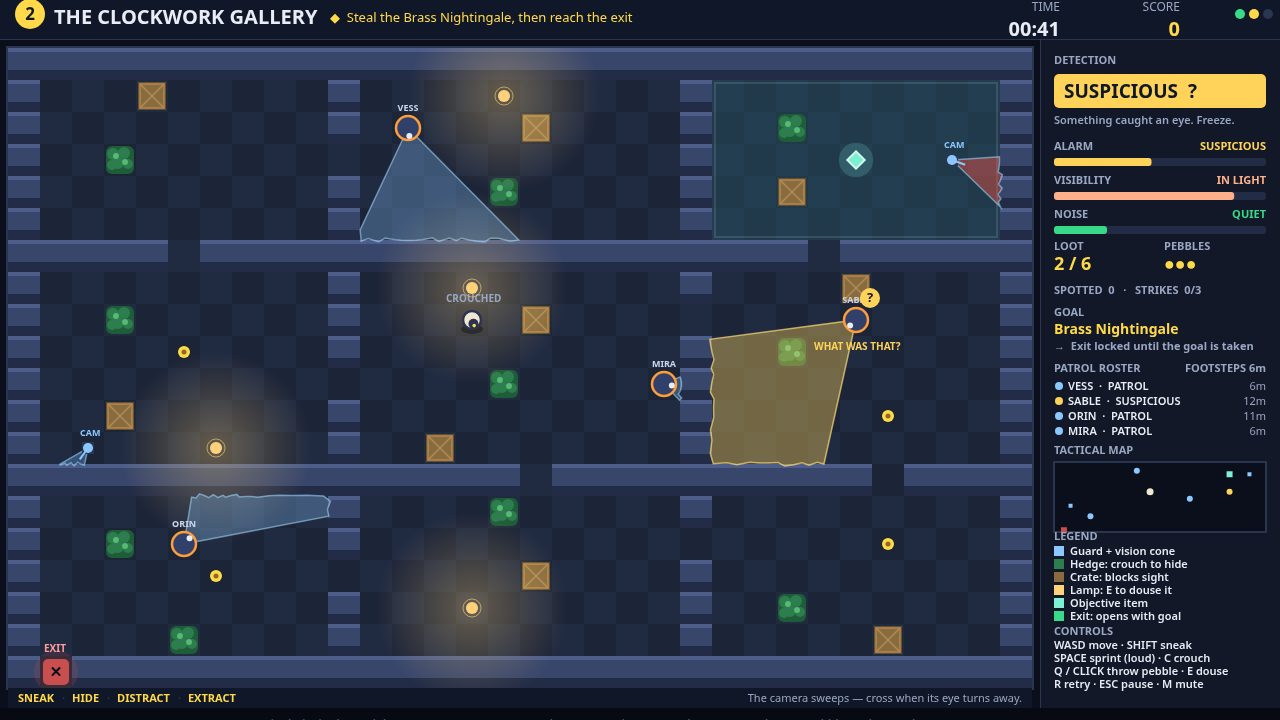
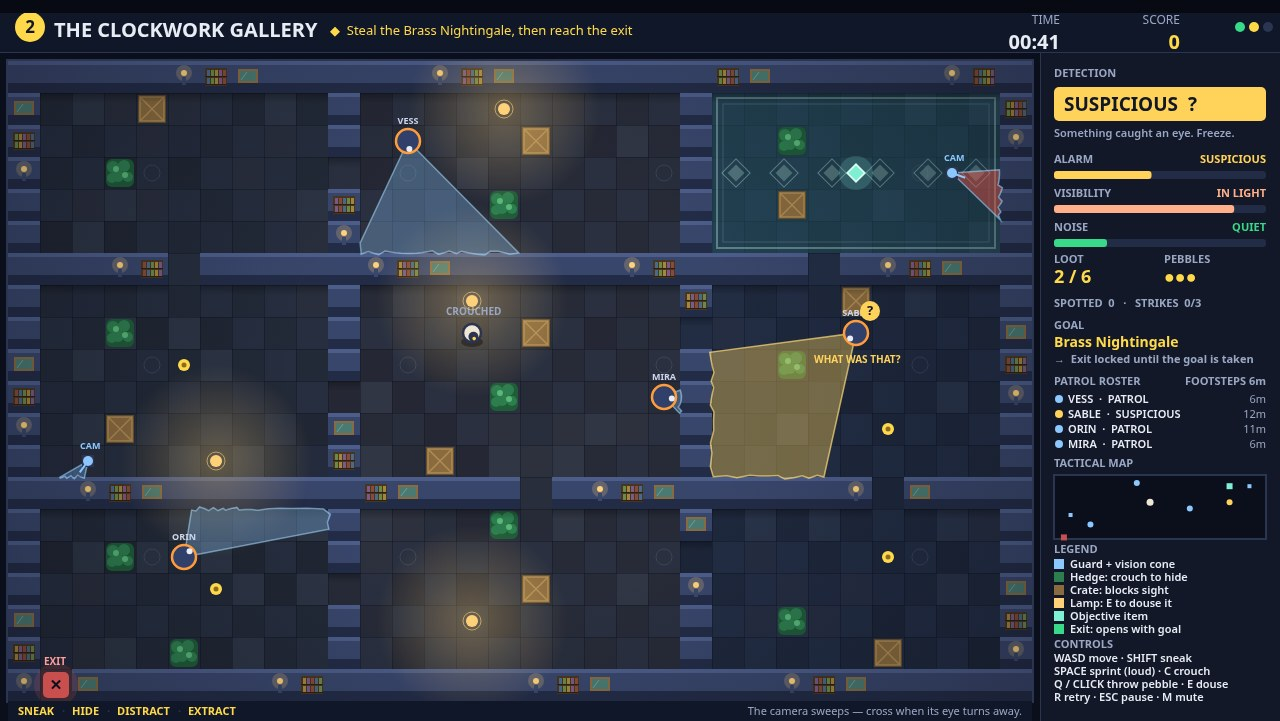
NIGHTJAR v2: richer rooms — wall dressing, woven rugs, floor variation, vignette; fix LEGEND/minimap overlap
Render-only polish, no mechanics changed:
- Walls now carry paintings, bookshelves and sconces (fixed hash, per level)
- Rugs are woven: border bands, diamond motif, fringe on the short ends
- Floor: per-tile variation, grout grid, per-zone tints, faint medallions
- Soft wall shadows + vignette for lamplight mood; cones/guards untouched
- LEGEND no longer overlaps the tactical map (map 70->64px, gap 8->14px)
Screenshots re-staged from the game's own code and viewed.

diff --git a/game/src/render.js b/game/src/render.js
@@ -115,28 +115,66 @@ function drawField(ctx, G) {
   ctx.beginPath();
   ctx.rect(FIELD_X, FIELD_Y, FIELD_W, FIELD_H);
   ctx.clip();
-  // Floor checker
+  // Floor: checker base, then a per-tile deterministic variation so the
+  // boards read as worn stone, a faint grout grid, and a subtle tint per
+  // room zone so each wing of the house feels like a different place.
+  const zoneTint = [
+    ['rgba(150, 110, 60, 0.10)', 'rgba(0, 0, 0, 0)', 'rgba(70, 100, 140, 0.08)'],
+    ['rgba(120, 100, 50, 0.08)', 'rgba(140, 110, 60, 0.10)', 'rgba(60, 90, 120, 0.08)'],
+    ['rgba(140, 70, 40, 0.10)', 'rgba(0, 0, 0, 0)', 'rgba(120, 60, 40, 0.08)'],
+  ][G.levelIndex];
   for (let cy = 0; cy < ROWS; cy++) {
     for (let cx = 0; cx < COLS; cx++) {
       const x = FIELD_X + cx * TILE;
       const y = FIELD_Y + cy * TILE;
       ctx.fillStyle = (cx + cy) % 2 === 0 ? COLORS.floorA : COLORS.floorB;
       ctx.fillRect(x, y, TILE, TILE);
+      const h = (((cx * 73856093) ^ (cy * 19349663) ^ (G.levelIndex * 83492791)) >>> 0) % 100;
+      if (h < 18) {
+        ctx.fillStyle = 'rgba(255, 255, 255, 0.03)';
+        ctx.fillRect(x, y, TILE, TILE);
+      } else if (h < 36) {
+        ctx.fillStyle = 'rgba(0, 0, 0, 0.06)';
+        ctx.fillRect(x, y, TILE, TILE);
+      }
+      const zone = cx < 10 ? 0 : cx < 21 ? 1 : 2;
+      if (zoneTint[zone] !== 'rgba(0, 0, 0, 0)') {
+        ctx.fillStyle = zoneTint[zone];
+        ctx.fillRect(x, y, TILE, TILE);
+      }
+      // Faint floor medallion at a few corridor crossings, drawn under all.
+      if (p.rows[cy][cx] === '.' && cx % 8 === 4 && cy % 6 === 3) {
+        ctx.strokeStyle = 'rgba(232, 236, 245, 0.10)';
+        ctx.lineWidth = 1;
+        ctx.beginPath();
+        ctx.arc(x + TILE / 2, y + TILE / 2, 8, 0, Math.PI * 2);
+        ctx.stroke();
+      }
     }
   }
-  // Carpet: one designed room per night, so the floor reads as a place.
-  const carpet = [
-    { x: 11, y: 7, w: 10, h: 6, c: 'rgba(146, 52, 58, 0.30)' },
-    { x: 22, y: 1, w: 9, h: 5, c: 'rgba(42, 110, 120, 0.30)' },
-    { x: 11, y: 14, w: 10, h: 5, c: 'rgba(96, 62, 140, 0.30)' },
-  ][G.levelIndex];
-  ctx.fillStyle = carpet.c;
-  ctx.fillRect(FIELD_X + carpet.x * TILE, FIELD_Y + carpet.y * TILE, carpet.w * TILE, carpet.h * TILE);
-  ctx.strokeStyle = 'rgba(232, 236, 245, 0.25)';
+  // Grout grid over the whole floor.
+  ctx.strokeStyle = 'rgba(10, 14, 26, 0.35)';
   ctx.lineWidth = 1;
-  ctx.strokeRect(FIELD_X + carpet.x * TILE + 3, FIELD_Y + carpet.y * TILE + 3,
-    carpet.w * TILE - 6, carpet.h * TILE - 6);
+  ctx.beginPath();
+  for (let cx = 0; cx <= COLS; cx++) {
+    ctx.moveTo(FIELD_X + cx * TILE + 0.5, FIELD_Y);
+    ctx.lineTo(FIELD_X + cx * TILE + 0.5, FIELD_Y + FIELD_H);
+  }
+  for (let cy = 0; cy <= ROWS; cy++) {
+    ctx.moveTo(FIELD_X, FIELD_Y + cy * TILE + 0.5);
+    ctx.lineTo(FIELD_X + FIELD_W, FIELD_Y + cy * TILE + 0.5);
+  }
+  ctx.stroke();
+  // Rugs: one designed room per night, now a real woven rug — border bands,
+  // a diamond motif down the middle and fringe on the short ends.
+  const rug = [
+    { x: 11, y: 7, w: 10, h: 6, c: 'rgba(146, 52, 58, 0.34)', a: 'rgba(255, 205, 150, 0.55)' },
+    { x: 22, y: 1, w: 9, h: 5, c: 'rgba(42, 110, 120, 0.34)', a: 'rgba(190, 235, 220, 0.55)' },
+    { x: 11, y: 14, w: 10, h: 5, c: 'rgba(96, 62, 140, 0.34)', a: 'rgba(225, 200, 255, 0.55)' },
+  ][G.levelIndex];
+  drawRug(ctx, rug);
   // Hedges, crates, walls
+  const tileCh = (cx, cy) => (cx < 0 || cy < 0 || cx >= COLS || cy >= ROWS) ? '#' : p.rows[cy][cx];
   for (let cy = 0; cy < ROWS; cy++) {
     for (let cx = 0; cx < COLS; cx++) {
       const x = FIELD_X + cx * TILE;
@@ -149,11 +187,36 @@ function drawField(ctx, G) {
         ctx.fillRect(x, y, TILE, 22);
         ctx.fillStyle = COLORS.wallTop;
         ctx.fillRect(x, y, TILE, 4);
+        // Wall dressing: a painting, a bookshelf or a sconce on some wall
+        // faces (a wall tile with open floor beside it), picked by a fixed
+        // hash so the dressing never moves between runs.
+        const face = tileCh(cx - 1, cy) !== '#' || tileCh(cx + 1, cy) !== '#' ||
+          tileCh(cx, cy - 1) !== '#' || tileCh(cx, cy + 1) !== '#';
+        if (face) {
+          const pick = (cx * 31 + cy * 17 + G.levelIndex * 7) % 8;
+          if (pick === 0) drawWallPainting(ctx, x, y, G.levelIndex);
+          else if (pick === 1) drawWallShelf(ctx, x, y, cx, cy);
+          else if (pick === 2) drawWallSconce(ctx, x, y);
+        }
       } else if (t === 'H') {
         drawHedge(ctx, x, y);
       } else if (t === 'C') {
         drawCrate(ctx, x, y);
       }
+    }
+  }
+  // Soft shadow where a wall band meets the floor below it.
+  for (let cy = 0; cy < ROWS; cy++) {
+    for (let cx = 0; cx < COLS; cx++) {
+      if (p.rows[cy][cx] !== '#') continue;
+      if (cy + 1 >= ROWS || p.rows[cy + 1][cx] === '#') continue;
+      const x = FIELD_X + cx * TILE;
+      const y = FIELD_Y + (cy + 1) * TILE;
+      const sg = ctx.createLinearGradient(0, y, 0, y + 10);
+      sg.addColorStop(0, 'rgba(0, 0, 0, 0.28)');
+      sg.addColorStop(1, 'rgba(0, 0, 0, 0)');
+      ctx.fillStyle = sg;
+      ctx.fillRect(x, y, TILE, 10);
     }
   }
   // Lamp pools of light (lit lamps) — the light/shadow read.
@@ -167,6 +230,15 @@ function drawField(ctx, G) {
     ctx.fillStyle = g;
     ctx.fillRect(lx - LAMP_RADIUS, ly - LAMP_RADIUS, LAMP_RADIUS * 2, LAMP_RADIUS * 2);
   }
+  // Vignette: the room darkens toward the edges, so the lamp pools and the
+  // cones read as light in a dark house. Drawn under cones and actors.
+  const vg = ctx.createRadialGradient(
+    FIELD_X + FIELD_W / 2, FIELD_Y + FIELD_H / 2, FIELD_H * 0.35,
+    FIELD_X + FIELD_W / 2, FIELD_Y + FIELD_H / 2, FIELD_W * 0.62);
+  vg.addColorStop(0, 'rgba(5, 7, 14, 0)');
+  vg.addColorStop(1, 'rgba(5, 7, 14, 0.30)');
+  ctx.fillStyle = vg;
+  ctx.fillRect(FIELD_X, FIELD_Y, FIELD_W, FIELD_H);
   // Vision cones (under the guards, over the floor)
   for (const guard of G.guards) {
     const poly = conePolygon(p, guard.x, guard.y, guard.angle, GUARD_VIEW_RANGE, GUARD_VIEW_HALF_ANGLE);
@@ -286,6 +358,96 @@ function drawField(ctx, G) {
   ctx.strokeStyle = '#2a3552';
   ctx.lineWidth = 2;
   ctx.strokeRect(FIELD_X - 1, FIELD_Y - 1, FIELD_W + 2, FIELD_H + 2);
+}
+
+function drawRug(ctx, rug) {
+  const x = FIELD_X + rug.x * TILE;
+  const y = FIELD_Y + rug.y * TILE;
+  const w = rug.w * TILE;
+  const h = rug.h * TILE;
+  ctx.fillStyle = rug.c;
+  ctx.fillRect(x, y, w, h);
+  // Woven border: an outer band and a fine inner line.
+  ctx.strokeStyle = rug.a;
+  ctx.globalAlpha = 0.7;
+  ctx.lineWidth = 2;
+  ctx.strokeRect(x + 5, y + 5, w - 10, h - 10);
+  ctx.globalAlpha = 0.35;
+  ctx.lineWidth = 1;
+  ctx.strokeRect(x + 11, y + 11, w - 22, h - 22);
+  ctx.globalAlpha = 1;
+  // Diamond motif down the middle of the rug.
+  const n = Math.max(2, Math.floor(w / 48));
+  for (let i = 0; i < n; i++) {
+    const dx = x + w / 2 + (i - (n - 1) / 2) * 48;
+    const dy = y + h / 2;
+    ctx.save();
+    ctx.translate(dx, dy);
+    ctx.rotate(Math.PI / 4);
+    ctx.fillStyle = rug.a;
+    ctx.globalAlpha = 0.55;
+    ctx.fillRect(-6, -6, 12, 12);
+    ctx.globalAlpha = 0.8;
+    ctx.strokeStyle = rug.a;
+    ctx.lineWidth = 1;
+    ctx.strokeRect(-10, -10, 20, 20);
+    ctx.restore();
+  }
+  ctx.globalAlpha = 1;
+  // Fringe on the two short ends.
+  ctx.strokeStyle = rug.a;
+  ctx.globalAlpha = 0.6;
+  ctx.lineWidth = 1;
+  ctx.beginPath();
+  for (let fy = y + 9; fy < y + h - 4; fy += 8) {
+    ctx.moveTo(x - 4, fy);
+    ctx.lineTo(x, fy);
+    ctx.moveTo(x + w, fy);
+    ctx.lineTo(x + w + 4, fy);
+  }
+  ctx.stroke();
+  ctx.globalAlpha = 1;
+}
+
+function drawWallPainting(ctx, x, y, levelIndex) {
+  const canvas = ['#7a6a4a', '#4a7a72', '#7a4a42'][levelIndex];
+  ctx.fillStyle = '#8a6b3f';
+  ctx.fillRect(x + 6, y + 8, 20, 14);
+  ctx.fillStyle = canvas;
+  ctx.fillRect(x + 8, y + 10, 16, 10);
+  ctx.strokeStyle = 'rgba(255, 255, 255, 0.25)';
+  ctx.lineWidth = 1;
+  ctx.beginPath();
+  ctx.moveTo(x + 9, y + 19);
+  ctx.lineTo(x + 15, y + 11);
+  ctx.stroke();
+}
+
+function drawWallShelf(ctx, x, y, cx, cy) {
+  const spines = ['#8a4a3a', '#4a6a8a', '#6a8a4a', '#a08a3a', '#7a5a8a'];
+  ctx.fillStyle = '#4a3620';
+  ctx.fillRect(x + 5, y + 7, 22, 18);
+  ctx.fillStyle = '#2e2113';
+  ctx.fillRect(x + 5, y + 15, 22, 1);
+  ctx.fillRect(x + 5, y + 23, 22, 1);
+  for (let i = 0; i < 5; i++) {
+    ctx.fillStyle = spines[(cx + cy + i) % spines.length];
+    ctx.fillRect(x + 7 + i * 4, y + 9, 3, 6);
+    ctx.fillRect(x + 7 + i * 4, y + 17, 3, 6);
+  }
+}
+
+function drawWallSconce(ctx, x, y) {
+  ctx.fillStyle = 'rgba(255, 210, 122, 0.22)';
+  ctx.beginPath();
+  ctx.arc(x + 16, y + 12, 8, 0, Math.PI * 2);
+  ctx.fill();
+  ctx.fillStyle = '#3a466b';
+  ctx.fillRect(x + 14, y + 16, 4, 8);
+  ctx.fillStyle = '#ffd27a';
+  ctx.beginPath();
+  ctx.arc(x + 16, y + 12, 3, 0, Math.PI * 2);
+  ctx.fill();
 }
 
 function drawHedge(ctx, x, y) {
@@ -525,7 +687,7 @@ function drawRightPanel(ctx, G) {
   label(ctx, px, y, 'TACTICAL MAP', 11, COLORS.textDim, '700');
   y += 8;
   const mw = w - 28;
-  const mh = 70;
+  const mh = 64;
   ctx.fillStyle = '#0b0f1c';
   ctx.fillRect(px, y, mw, mh);
   ctx.strokeStyle = COLORS.panelEdge;
@@ -552,7 +714,7 @@ function drawRightPanel(ctx, G) {
   ctx.beginPath();
   ctx.arc(px + G.player.x * sx, y + G.player.y * sy, 3.5, 0, Math.PI * 2);
   ctx.fill();
-  y += mh + 8;
+  y += mh + 14;
   // Legend
   label(ctx, px, y, 'LEGEND', 11, COLORS.textDim, '700');
   y += 15;
